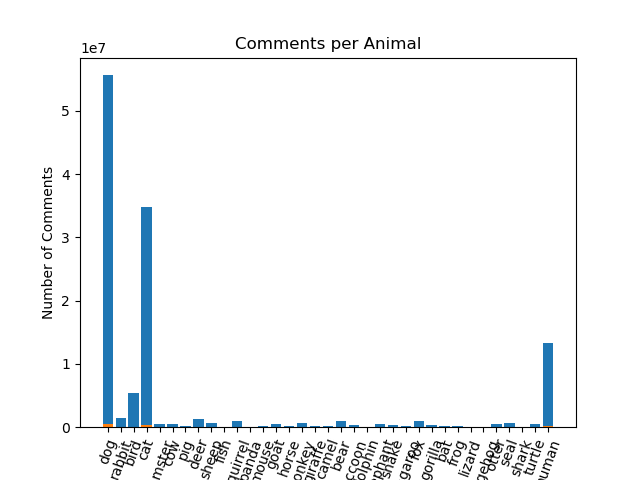
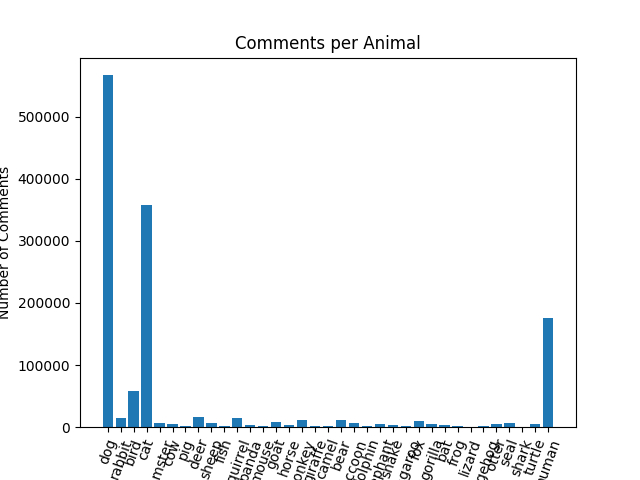
Added find_time_data file

diff --git a/bar_graphs.py b/bar_graphs.py
@@ -3,24 +3,11 @@ from itertools import count
 import pandas as pd
 import ast
 import matplotlib.pyplot as plt
+"""
+Create a list of total upvotes and total comments for each animal and plots it 
+in a bar graph.
 
-'''
-with open("animal_list.csv") as csvfile:
-        animal_count = {} 
-        animal_list = csv.reader(csvfile)
-        for row in animal_list:
-            while('' in row):
-                row.remove('')
-            animal_count[row[0]] = 0
-        sorted = pd.read_fwf('data/sorted_animals.txt')
-        for animal in animal_count:
-            for value in sorted:
-                print(sorted[value])
-                if animal in sorted[value]:
-                    animal_count[animal] = animal_count[animal] + 1
-        print(animal_count)
-'''
-
+"""
 with open('data/animals_posts.txt', 'r') as animals_id:
     animals_dict = ast.literal_eval(str(animals_id.read()))
 x_axis = []
@@ -39,6 +26,7 @@ for key in animals_dict.keys():
                 ['num_comments'])
         upvotes_total.append(total_upvotes)
         comments_total.append(total_comments)
+plt.figure()
 upvote_graph = plt.subplot()
 plt.bar(x_axis,upvotes_total, width = 0.8)
 plt.title('Upvotes per Animal')
@@ -47,12 +35,12 @@ plt.ylabel('Upvotes')
 plt.setp(upvote_graph.get_xticklabels(), rotation=70)
 plt.savefig('visualizations/upvotes.png')
 
-#This needs to be fixed
+plt.figure()
 comment_graph = plt.subplot()
 plt.bar(x_axis,comments_total, width = 0.8)
 plt.title('Comments per Animal')
 plt.xlabel('Animal')
 plt.ylabel('Number of Comments')
 
-plt.setp(upvote_graph.get_xticklabels(), rotation=70)
+plt.setp(comment_graph.get_xticklabels(), rotation=70)
 plt.savefig('visualizations/comments.png')
